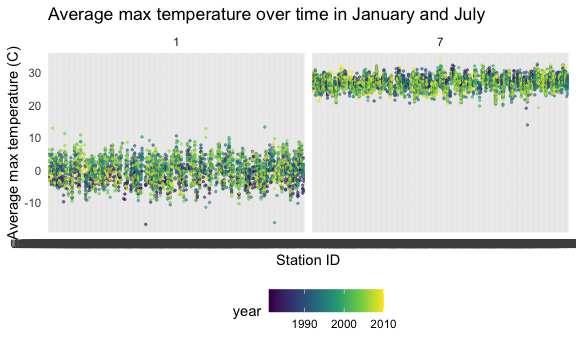
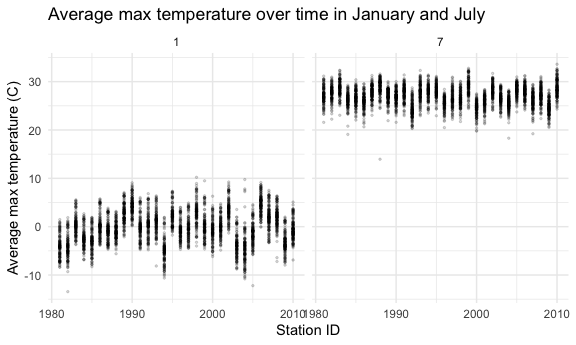
Fixed graphs and cleaned up code.

diff --git a/p8105_hw3_kl3181.md b/p8105_hw3_kl3181.md
@@ -149,48 +149,22 @@ accel_df %>%
   mutate(
     total_activity = round(total_activity, digits = 0)
   ) %>% 
+  pivot_wider(
+    names_from = day,
+    values_from = total_activity
+  ) %>% 
   knitr::kable()
 ```
 
     ## `summarise()` regrouping output by 'week' (override with `.groups` argument)
 
-| week | day       | total\_activity |
-| ---: | :-------- | --------------: |
-|    1 | Sunday    |          631105 |
-|    1 | Monday    |           78828 |
-|    1 | Tuesday   |          307094 |
-|    1 | Wednesday |          340115 |
-|    1 | Thursday  |          355924 |
-|    1 | Friday    |          480543 |
-|    1 | Saturday  |          376254 |
-|    2 | Sunday    |          422018 |
-|    2 | Monday    |          295431 |
-|    2 | Tuesday   |          423245 |
-|    2 | Wednesday |          440962 |
-|    2 | Thursday  |          474048 |
-|    2 | Friday    |          568839 |
-|    2 | Saturday  |          607175 |
-|    3 | Sunday    |          467052 |
-|    3 | Monday    |          685910 |
-|    3 | Tuesday   |          381507 |
-|    3 | Wednesday |          468869 |
-|    3 | Thursday  |          371230 |
-|    3 | Friday    |          467420 |
-|    3 | Saturday  |          382928 |
-|    4 | Sunday    |          260617 |
-|    4 | Monday    |          409450 |
-|    4 | Tuesday   |          319568 |
-|    4 | Wednesday |          434460 |
-|    4 | Thursday  |          340291 |
-|    4 | Friday    |          154049 |
-|    4 | Saturday  |            1440 |
-|    5 | Sunday    |          138421 |
-|    5 | Monday    |          389080 |
-|    5 | Tuesday   |          367824 |
-|    5 | Wednesday |          445366 |
-|    5 | Thursday  |          549658 |
-|    5 | Friday    |          620860 |
-|    5 | Saturday  |            1440 |
+| week | Sunday | Monday | Tuesday | Wednesday | Thursday | Friday | Saturday |
+| ---: | -----: | -----: | ------: | --------: | -------: | -----: | -------: |
+|    1 | 631105 |  78828 |  307094 |    340115 |   355924 | 480543 |   376254 |
+|    2 | 422018 | 295431 |  423245 |    440962 |   474048 | 568839 |   607175 |
+|    3 | 467052 | 685910 |  381507 |    468869 |   371230 | 467420 |   382928 |
+|    4 | 260617 | 409450 |  319568 |    434460 |   340291 | 154049 |     1440 |
+|    5 | 138421 | 389080 |  367824 |    445366 |   549658 | 620860 |     1440 |
 
 We can see that there are specifically two days of lower activity,
 notably the last two Saturdays in weeks 4 and 5. Similarly, the last two
@@ -204,6 +178,7 @@ Thursdays with more varying activity for Mondays and Fridays.
 accel_df %>% 
   ggplot(aes(x = minute, y = activity_count)) +
   geom_line(aes(color = day), alpha = 0.3) +
+  geom_smooth(size = 0.2) +
   scale_x_continuous(
     breaks = c(0, 240, 480, 720, 960, 1200, 1440),
     labels = c("00:00", "4:00", "8:00", "12:00", "16:00", "20:00", "23:59")
@@ -214,6 +189,8 @@ accel_df %>%
     y = "Level of activity"
   )
 ```
+
+    ## `geom_smooth()` using method = 'gam' and formula 'y ~ s(x, bs = "cs")'
 
 <img src="p8105_hw3_kl3181_files/figure-gfm/unnamed-chunk-8-1.png" width="90%" />
 Based on this graphic, we can see that most of the activity is around
@@ -243,7 +220,6 @@ all of these variables, and therefore there is a lot of missing data.
 noaa_tidy =
 ny_noaa %>% 
   janitor::clean_names() %>% 
-  drop_na() %>% 
   separate(date, into = c("year", "month", "day"), sep = "-") %>% 
   mutate(
     year = as.integer(year),
@@ -263,36 +239,37 @@ noaa_tidy %>%
   arrange(desc(n_obs))
 ```
 
-    ## # A tibble: 248 x 2
+    ## # A tibble: 282 x 2
     ##     snow   n_obs
     ##    <int>   <int>
-    ##  1     0 1112758
-    ##  2    25   15809
-    ##  3    13   12460
-    ##  4    51    9252
-    ##  5     5    5669
-    ##  6     8    5380
-    ##  7    76    5296
-    ##  8     3    5276
-    ##  9    38    5050
-    ## 10   102    3386
-    ## # … with 238 more rows
+    ##  1     0 2008508
+    ##  2    NA  381221
+    ##  3    25   31022
+    ##  4    13   23095
+    ##  5    51   18274
+    ##  6    76   10173
+    ##  7     8    9962
+    ##  8     5    9748
+    ##  9    38    9197
+    ## 10     3    8790
+    ## # … with 272 more rows
 
 The most common observed value is 0 centimeters of snowfall with 2008508
-observations. The most common snowfall is 25 millimieters with 31022. It
-is likely these are the most common values because for most days out of
-the year there is no snow or some stations are less likely to have snow
-than others.
+observations and NA. The most common snowfall is 25 millimieters with
+31022. It is likely these are the most common values because for most
+days out of the year there is no snow or some stations are less likely
+to have snow than others.
 
 ##### Making a two-panel plot to show the average *max* temperature in January and July.
 
 ``` r
 noaa_tidy %>%
   group_by(id, year, month) %>%  
-  summarize(average_max_temp = mean(tmax)) %>% 
+  summarize(average_max_temp = mean(tmax, na.rm = TRUE)) %>% 
   filter(month %in% c("1", "7")) %>% 
-  ggplot(aes(x = id, y = average_max_temp, color = year)) +
-  geom_point(alpha = 0.5, size = 0.5) +
+  ggplot(aes(x = year, y = average_max_temp, group = id)) +
+  geom_point(alpha = 0.15, size = 0.5) +
+  geom_smooth(se = FALSE) +
   facet_grid(. ~ month) +
   labs(
     title = "Average max temperature over time in January and July",
@@ -301,6 +278,149 @@ noaa_tidy %>%
 ```
 
     ## `summarise()` regrouping output by 'id', 'year' (override with `.groups` argument)
+
+    ## `geom_smooth()` using method = 'loess' and formula 'y ~ x'
+
+    ## Warning: Removed 5970 rows containing non-finite values (stat_smooth).
+
+    ## Warning in simpleLoess(y, x, w, span, degree = degree, parametric =
+    ## parametric, : span too small. fewer data values than degrees of freedom.
+
+    ## Warning in simpleLoess(y, x, w, span, degree = degree, parametric =
+    ## parametric, : pseudoinverse used at 1986
+
+    ## Warning in simpleLoess(y, x, w, span, degree = degree, parametric =
+    ## parametric, : neighborhood radius 1.01
+
+    ## Warning in simpleLoess(y, x, w, span, degree = degree, parametric =
+    ## parametric, : reciprocal condition number 0
+
+    ## Warning in simpleLoess(y, x, w, span, degree = degree, parametric =
+    ## parametric, : There are other near singularities as well. 1.0201
+
+    ## Warning in simpleLoess(y, x, w, span, degree = degree, parametric =
+    ## parametric, : Chernobyl! trL>n 6
+    
+    ## Warning in simpleLoess(y, x, w, span, degree = degree, parametric =
+    ## parametric, : Chernobyl! trL>n 6
+
+    ## Warning in sqrt(sum.squares/one.delta): NaNs produced
+
+    ## Warning in simpleLoess(y, x, w, span, degree = degree, parametric =
+    ## parametric, : span too small. fewer data values than degrees of freedom.
+
+    ## Warning in simpleLoess(y, x, w, span, degree = degree, parametric =
+    ## parametric, : at 2009
+
+    ## Warning in simpleLoess(y, x, w, span, degree = degree, parametric =
+    ## parametric, : radius 2.5e-05
+
+    ## Warning in simpleLoess(y, x, w, span, degree = degree, parametric =
+    ## parametric, : all data on boundary of neighborhood. make span bigger
+
+    ## Warning in simpleLoess(y, x, w, span, degree = degree, parametric =
+    ## parametric, : pseudoinverse used at 2009
+
+    ## Warning in simpleLoess(y, x, w, span, degree = degree, parametric =
+    ## parametric, : neighborhood radius 0.005
+
+    ## Warning in simpleLoess(y, x, w, span, degree = degree, parametric =
+    ## parametric, : reciprocal condition number 1
+
+    ## Warning in simpleLoess(y, x, w, span, degree = degree, parametric =
+    ## parametric, : at 2010
+
+    ## Warning in simpleLoess(y, x, w, span, degree = degree, parametric =
+    ## parametric, : radius 2.5e-05
+
+    ## Warning in simpleLoess(y, x, w, span, degree = degree, parametric =
+    ## parametric, : all data on boundary of neighborhood. make span bigger
+
+    ## Warning in simpleLoess(y, x, w, span, degree = degree, parametric =
+    ## parametric, : There are other near singularities as well. 2.5e-05
+
+    ## Warning in simpleLoess(y, x, w, span, degree = degree, parametric =
+    ## parametric, : zero-width neighborhood. make span bigger
+    
+    ## Warning in simpleLoess(y, x, w, span, degree = degree, parametric =
+    ## parametric, : zero-width neighborhood. make span bigger
+
+    ## Warning: Computation failed in `stat_smooth()`:
+    ## NA/NaN/Inf in foreign function call (arg 5)
+
+    ## Warning in simpleLoess(y, x, w, span, degree = degree, parametric =
+    ## parametric, : span too small. fewer data values than degrees of freedom.
+
+    ## Warning in simpleLoess(y, x, w, span, degree = degree, parametric =
+    ## parametric, : pseudoinverse used at 1986
+
+    ## Warning in simpleLoess(y, x, w, span, degree = degree, parametric =
+    ## parametric, : neighborhood radius 1.01
+
+    ## Warning in simpleLoess(y, x, w, span, degree = degree, parametric =
+    ## parametric, : reciprocal condition number 0
+
+    ## Warning in simpleLoess(y, x, w, span, degree = degree, parametric =
+    ## parametric, : There are other near singularities as well. 1.0201
+
+    ## Warning in simpleLoess(y, x, w, span, degree = degree, parametric =
+    ## parametric, : span too small. fewer data values than degrees of freedom.
+
+    ## Warning in simpleLoess(y, x, w, span, degree = degree, parametric =
+    ## parametric, : pseudoinverse used at 1981
+
+    ## Warning in simpleLoess(y, x, w, span, degree = degree, parametric =
+    ## parametric, : neighborhood radius 2.025
+
+    ## Warning in simpleLoess(y, x, w, span, degree = degree, parametric =
+    ## parametric, : reciprocal condition number 0
+
+    ## Warning in simpleLoess(y, x, w, span, degree = degree, parametric =
+    ## parametric, : There are other near singularities as well. 9.1506
+
+    ## Warning in simpleLoess(y, x, w, span, degree = degree, parametric =
+    ## parametric, : span too small. fewer data values than degrees of freedom.
+
+    ## Warning in simpleLoess(y, x, w, span, degree = degree, parametric =
+    ## parametric, : at 2009
+
+    ## Warning in simpleLoess(y, x, w, span, degree = degree, parametric =
+    ## parametric, : radius 2.5e-05
+
+    ## Warning in simpleLoess(y, x, w, span, degree = degree, parametric =
+    ## parametric, : all data on boundary of neighborhood. make span bigger
+
+    ## Warning in simpleLoess(y, x, w, span, degree = degree, parametric =
+    ## parametric, : pseudoinverse used at 2009
+
+    ## Warning in simpleLoess(y, x, w, span, degree = degree, parametric =
+    ## parametric, : neighborhood radius 0.005
+
+    ## Warning in simpleLoess(y, x, w, span, degree = degree, parametric =
+    ## parametric, : reciprocal condition number 1
+
+    ## Warning in simpleLoess(y, x, w, span, degree = degree, parametric =
+    ## parametric, : at 2010
+
+    ## Warning in simpleLoess(y, x, w, span, degree = degree, parametric =
+    ## parametric, : radius 2.5e-05
+
+    ## Warning in simpleLoess(y, x, w, span, degree = degree, parametric =
+    ## parametric, : all data on boundary of neighborhood. make span bigger
+
+    ## Warning in simpleLoess(y, x, w, span, degree = degree, parametric =
+    ## parametric, : There are other near singularities as well. 2.5e-05
+
+    ## Warning in simpleLoess(y, x, w, span, degree = degree, parametric =
+    ## parametric, : zero-width neighborhood. make span bigger
+    
+    ## Warning in simpleLoess(y, x, w, span, degree = degree, parametric =
+    ## parametric, : zero-width neighborhood. make span bigger
+
+    ## Warning: Computation failed in `stat_smooth()`:
+    ## NA/NaN/Inf in foreign function call (arg 5)
+
+    ## Warning: Removed 5970 rows containing missing values (geom_point).
 
 <img src="p8105_hw3_kl3181_files/figure-gfm/unnamed-chunk-12-1.png" width="90%" />
 Looking at the average maximum temperature across the stations, we can
@@ -318,24 +438,34 @@ library(patchwork)
 
 temperature_p = 
   noaa_tidy %>% 
-  ggplot(aes(x = tmax, y = tmin)) +
+  ggplot(aes(x = tmin, y = tmax)) +
   geom_hex() +
   labs(
-    title = "Maximum vs minimum temperatures"
+    title = "Maximum vs minimum temperatures",
+    x = "Minimum daily temperature (C)",
+    y = "Maximum daily temperature (C)"
   ) +
   theme(plot.title = element_text(size = 10))
 
 snow_p = 
   noaa_tidy %>% 
   filter(snow > 0, snow < 100) %>% 
+  mutate(year = factor(year)) %>% 
   ggplot(aes(x = year, y = snow)) +
-  geom_violin() +
+  geom_boxplot() +
   labs(
-    title = "Distribution of snowfall over time"
+    title = "Distribution of snowfall over time",
+    x = "Year",
+    y = "Snowfall"
   ) +
-  theme(plot.title = element_text(size = 10))  
+  theme(
+    plot.title = element_text(size = 10),
+    axis.text.x = element_text(angle = 90)
+  )  
 
-temperature_p + snow_p
+temperature_p / snow_p
 ```
+
+    ## Warning: Removed 1136276 rows containing non-finite values (stat_binhex).
 
 <img src="p8105_hw3_kl3181_files/figure-gfm/unnamed-chunk-13-1.png" width="90%" />
